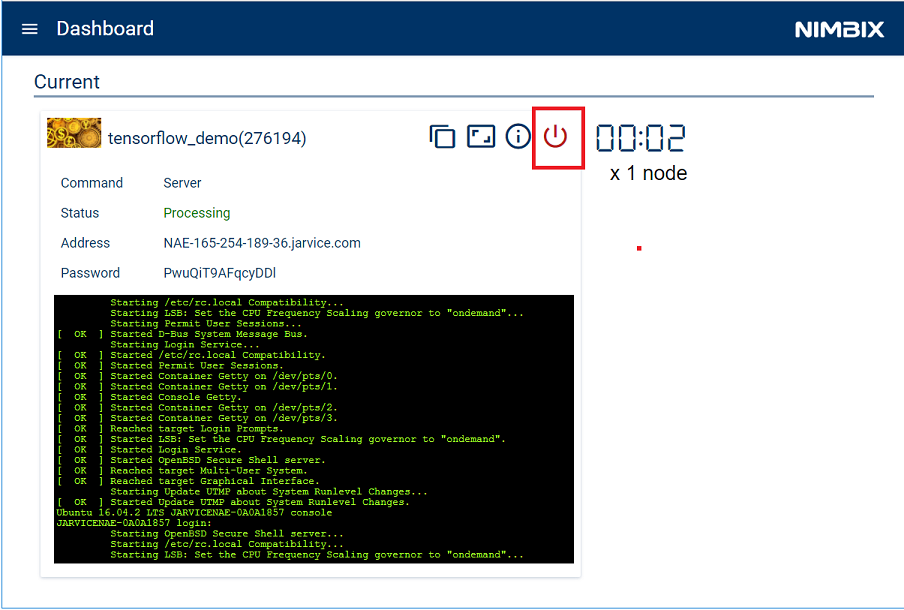
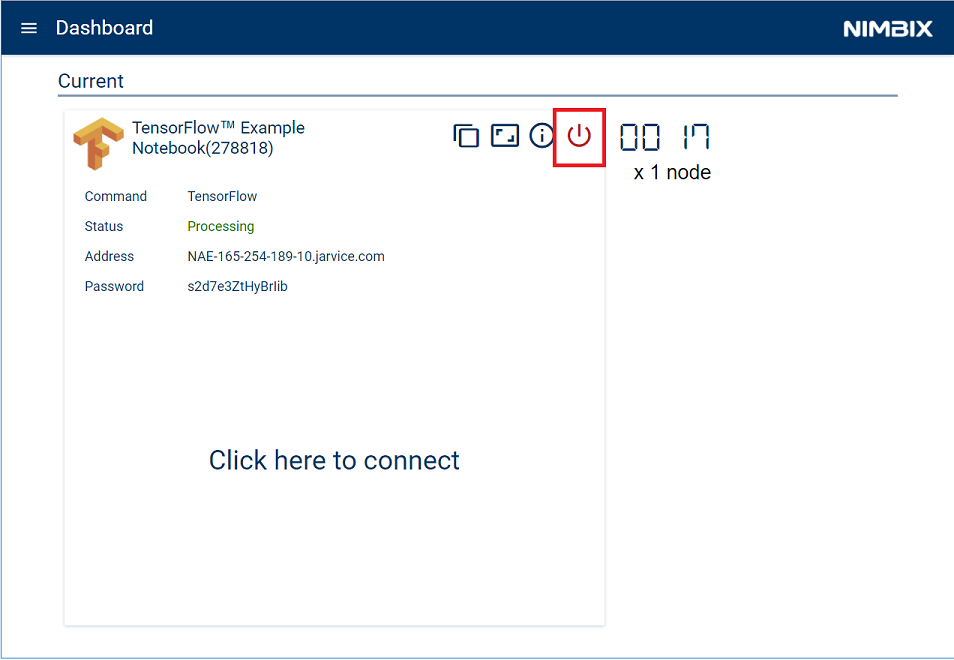
update readme

diff --git a/README.md b/README.md
@@ -102,58 +102,47 @@ selected the ``Current Jobs`` dashboard view.
 
 Once signed into Nimbix, deploy the demo on an IBM Power8 server.
 
-* Search for and select the ``tensorflow_demo`` in the list of available apps
-in the ``Compute:All Applications`` view.
+* Search for and select the ``TensorFlow Example Notebook`` in the list
+of available apps in the ``Compute:All Applications`` view.
 
-![](doc/source/images/tensor-flow-select-demo.png)
+![](doc/source/images/nimbix-search-page-demo.png)
 
-* From the ``tensorflow_demo`` application panel, select the ``Server``
-option:
+* From the ``TensorFlow Example Notebook`` application panel, click the
+``TensorFlow`` button:
 
-![](doc/source/images/tensor-flow-demo-page.png)
+![](doc/source/images/tensor-flow-demo-launch.png)
 
-* From the ``Server`` configuration panel, accept all default values and
+* From the ``TensorFlow`` configuration panel, accept all default values and
 click on ``Submit``:
 
-![](doc/source/images/tensor-flow-demo-options.png)
+![](doc/source/images/tensor-flow-demo-config.png)
 
-> *NOTE:* Ignore the "$0.43/hr" charge listed. With your trial account you receive 10 hours of free processing time.
+> *NOTE:* Ignore the "$3.80/hr" charge listed. With your trial account you receive 10 hours of free processing time.
 
 * Once started, the following ``Dashboard`` panel will be displayed. When
 the server ``Status`` turns to ``Processing``, the server is ready to be
 accessed.
 
-Take note of the ``Address`` and ``Password`` fields.
+    Take note of the ``Password`` value.
 
-![](doc/source/images/tensor-flow-demo-start.png)
+![](doc/source/images/tensor-flow-demo-click.png)
 
-Using the information obtained from the previous step, launch the server
-session:
+* Log-in using the user name ``nimbix`` and the previously supplied password.
 
-* Open a terminal session on the same host that accessed the Nimbix Cloud.
+![](doc/source/images/tensor-flow-demo-login.png)
 
-* Enter the following ssh command, substituting the values provided in
-the previous step.
+* From the notebook file listing, click ``MLDL-demo``.
 
-    ``ssh -L 8888:localhost:8888 nimbix@<server ip addr>``
-
-* When prompted, enter the supplied password.
-
-![](doc/source/images/nimbix-ssh-session.png)
-
-From the same terminal window, enter the command ``ipython notebook`` to
-launch the Jupyter notebook:
-
-![](doc/source/images/nimbix-launch-notebook.png)
+![](doc/source/images/tensor-flow-files-1.png)
 
 Take note of the URL provided. Use this link to access the notebook.
 
 ## 4. Access and start the Jupyter notebook
 
-Proceed to the provided notebook URL and click on the
+Click on the
 ``Clean_Energy_Watson_V1.0.ipynb`` link to start the Jupyter notebook.
 
-![](doc/source/images/jupyter-nb-contents.png)
+![](doc/source/images/tensor-flow-files-2.png)
 
 ![](doc/source/images/nb-start-page.png)
 
